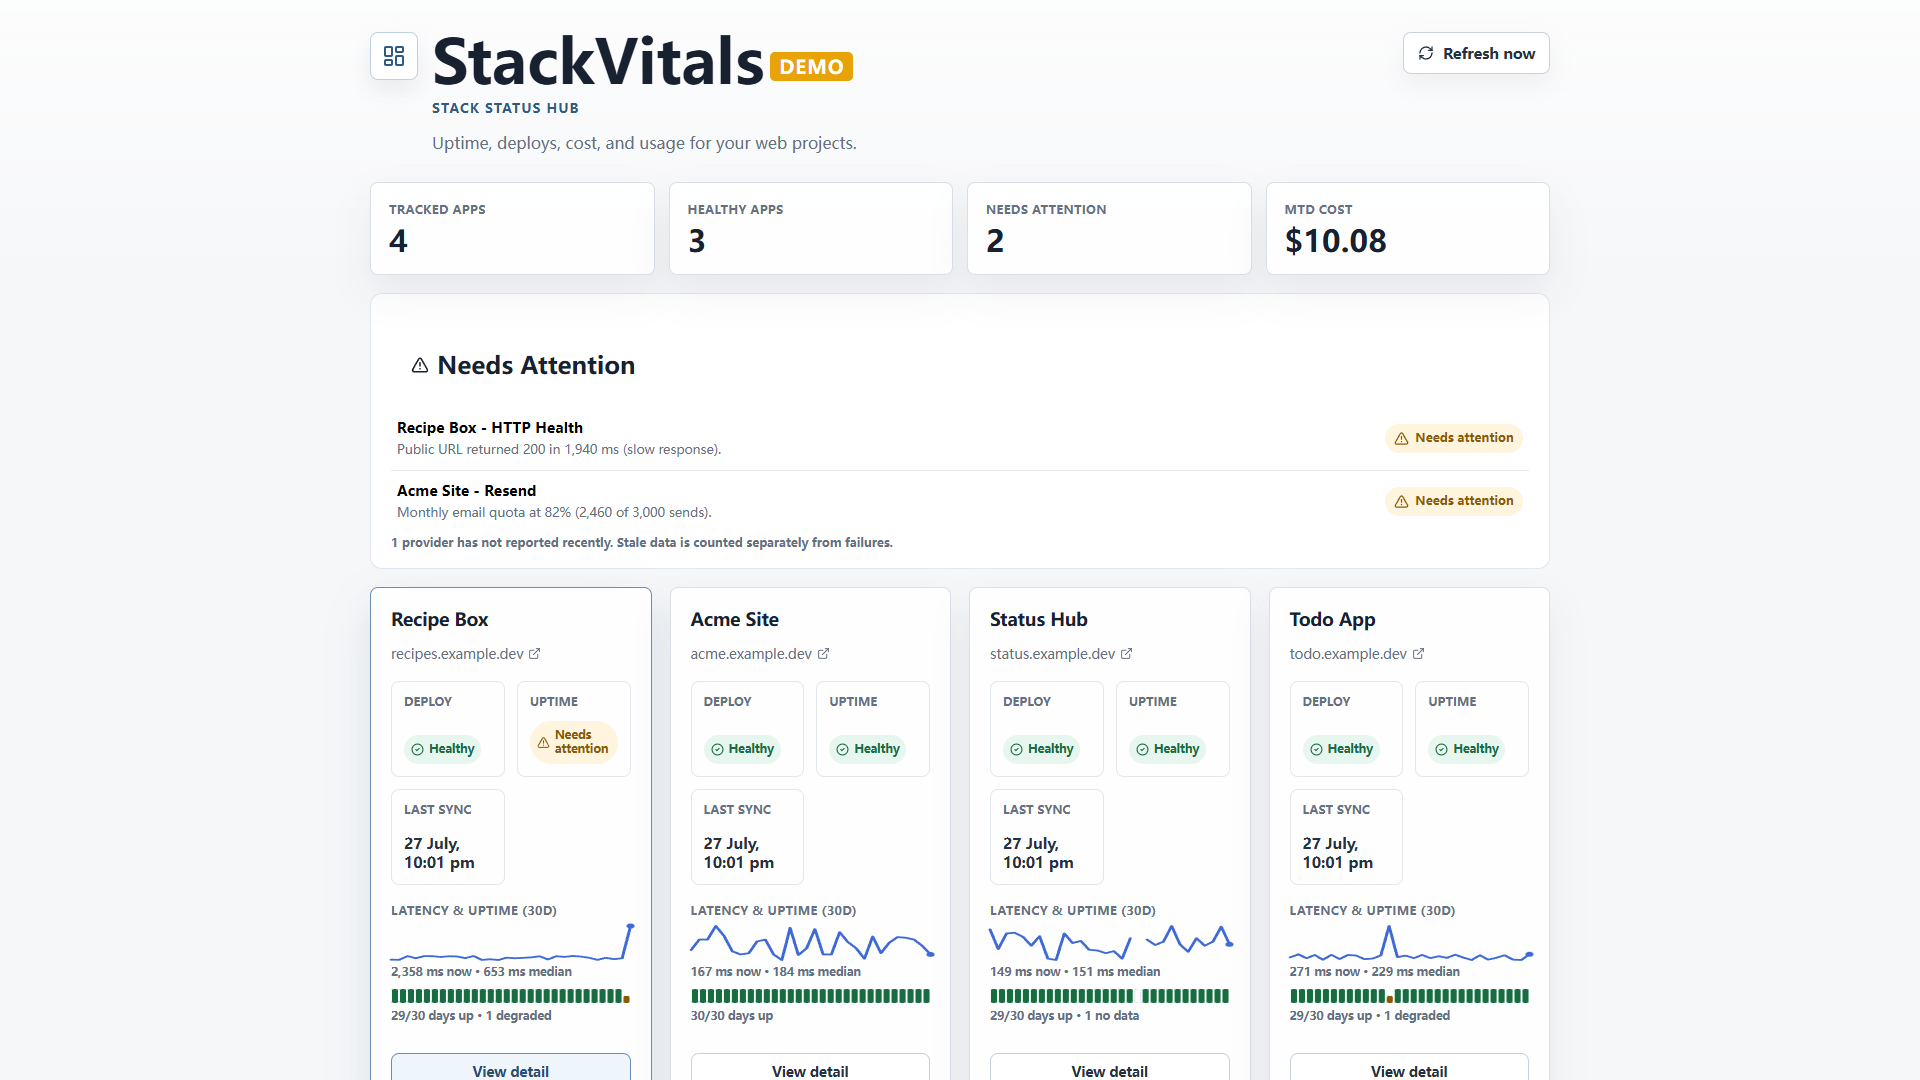
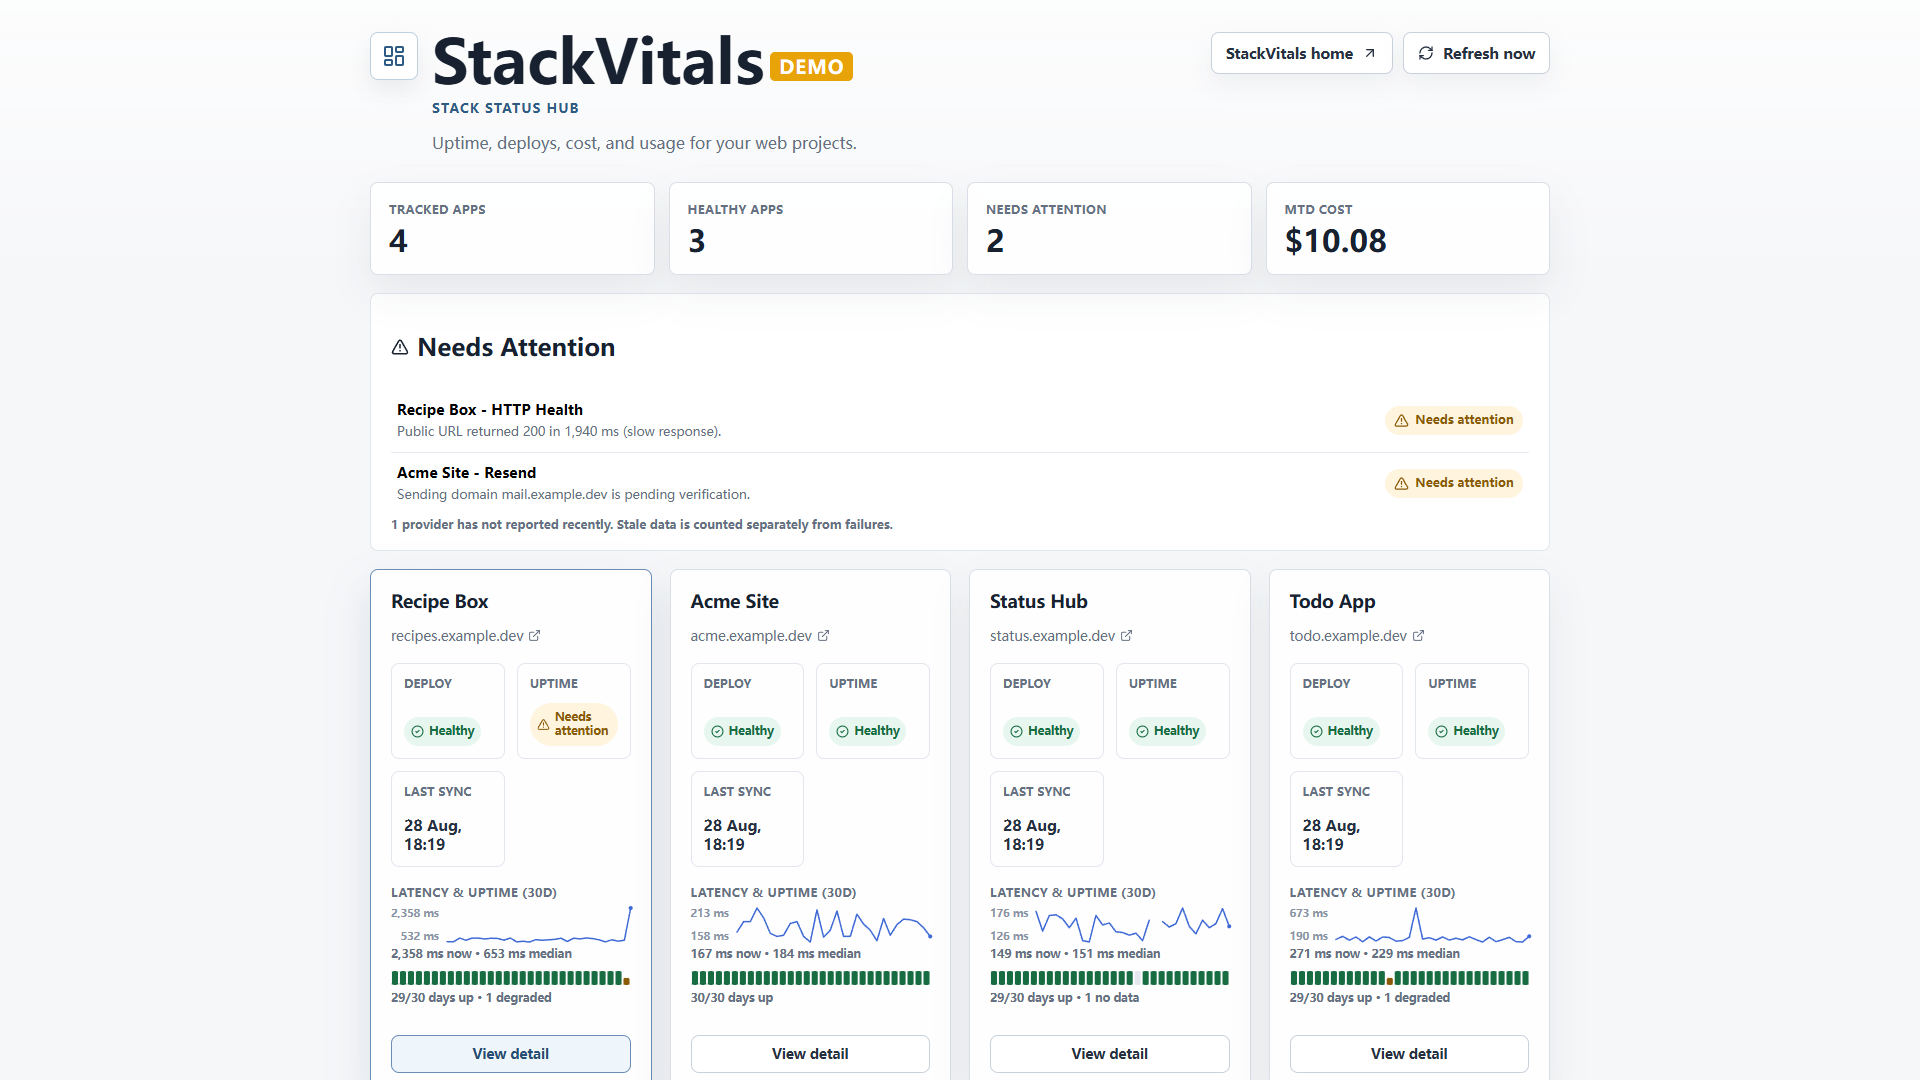
docs: refresh site and demo navigation

diff --git a/src/App.tsx b/src/App.tsx
@@ -1,4 +1,4 @@
-import { AlertTriangle, LayoutDashboard, RefreshCw, Server } from 'lucide-react';
+import { AlertTriangle, ArrowUpRight, LayoutDashboard, RefreshCw, Server } from 'lucide-react';
 import { useCallback, useEffect, useMemo, useState } from 'react';
 import { getOverallStatus } from './lib/status';
 import { buildAttentionItems, countStaleProviders } from './lib/attention';
@@ -134,21 +134,29 @@ function Dashboard() {
             <p>Uptime, deploys, cost, and usage for your web projects.</p>
           </div>
         </div>
-        <button
-          className="refresh-button"
-          type="button"
-          disabled={refreshing}
-          onClick={() =>
-            void (async () => {
-              setRefreshing(true);
-              await loadDashboardData();
-              setRefreshing(false);
-            })()
-          }
-        >
-          <RefreshCw aria-hidden="true" size={16} />
-          {refreshing ? 'Refreshing' : 'Refresh now'}
-        </button>
+        <div className="topbar-actions">
+          {isDemoMode && (
+            <a className="site-link" href="https://stackvitals.dev">
+              StackVitals home
+              <ArrowUpRight aria-hidden="true" size={16} />
+            </a>
+          )}
+          <button
+            className="refresh-button"
+            type="button"
+            disabled={refreshing}
+            onClick={() =>
+              void (async () => {
+                setRefreshing(true);
+                await loadDashboardData();
+                setRefreshing(false);
+              })()
+            }
+          >
+            <RefreshCw aria-hidden="true" size={16} />
+            {refreshing ? 'Refreshing' : 'Refresh now'}
+          </button>
+        </div>
       </header>
 
       {refreshing && (

diff --git a/src/styles.css b/src/styles.css
@@ -188,7 +188,15 @@ a {
   margin-top: -8px;
 }
 
-.refresh-button {
+.topbar-actions {
+  display: flex;
+  flex: 0 0 auto;
+  align-items: center;
+  gap: 10px;
+}
+
+.refresh-button,
+.site-link {
   display: inline-flex;
   min-height: 42px;
   align-items: center;
@@ -202,6 +210,10 @@ a {
   font-weight: 650;
   padding: 0 14px;
   box-shadow: 0 10px 24px rgba(35, 45, 62, 0.06);
+}
+
+.site-link {
+  text-decoration: none;
 }
 
 .refresh-button:disabled {

diff --git a/docs/SELF_HOSTING.md b/docs/SELF_HOSTING.md
@@ -71,9 +71,9 @@ never in a local file.
 
 1. Create a Supabase project for your dashboard instance.
 2. Apply migrations in `supabase/migrations/`.
-3. Run `supabase/seed.sql` (providers registry), then insert your own project rows — copy the
-   commented template in that file into a git-ignored `supabase/seed.local.sql` and run it, so
-   your real slugs, names, and URLs never land in git.
+3. Run `supabase/seed.sql` to create the provider registry. The collector synchronizes project
+   rows from the private config in section 2, so a production instance does not need hand-written
+   project inserts.
 4. In Supabase Auth, disable public signup if you want this to stay single-owner.
 5. Create your own Auth user manually in Supabase.
 6. Add the same email to the allowlist:
@@ -108,6 +108,10 @@ Quick order:
    `projects.config.json` automatically when present; pass `-- --config path/to/file.json` to
    use a different file.
 5. After it works locally, add the same config/secrets to your scheduled workflow.
+
+Each writable collector run treats this config as the active inventory: it upserts configured
+projects, deactivates omitted projects, and removes stored data for providers removed from a
+project.
 
 ### Config values
 
@@ -204,7 +208,9 @@ Fight Mode** doesn't run on the Ruleset Engine at all, so no custom rule can exe
 free-plan zone, set `resources.healthCheckUrl` on the affected project to a target that
 bypasses Cloudflare entirely instead (an Amplify app's free default domain, for example). The
 dashboard's clickable link keeps using `publicUrl`; only the health-check probe uses the
-override.
+override. Set `resources.healthCheckFollowRedirects` to `false` when the deployment origin's
+redirect itself should count as healthy instead of following it back through the protected
+custom domain.
 
 Optional OpenAI display labels and GitHub repository mappings live in private collector config,
 not env vars:

diff --git a/site/src/content/docs/zh-cn/reference/database-schema.md b/site/src/content/docs/zh-cn/reference/database-schema.md
@@ -32,6 +32,10 @@ StackVitals 使用 Supabase Postgres，迁移文件按编号顺序从 `supabase/
 
 `projects.slug` 是自由格式的字符串，必须与 `projects.config.json` 中的 slug 匹配。`providers.key` 映射到 TypeScript 类型 `ProviderKey`。新的提供商键总是与其采集器适配器一起添加，不会提前添加。
 
+### 项目范围的资源
+
+资源标识包含 `project_id`，因此同一物理提供商资源可以出现在多个已配置项目中。账户级资源继续以 null 项目保持唯一。
+
 ### RLS
 
 行级安全策略将所有读取限制为邮箱出现在 `dashboard_users` 中的已认证用户。这是持久的数据边界——前端邮箱允许列表（`VITE_DASHBOARD_ALLOWED_EMAIL`）是额外的关卡，不是替代品。
@@ -48,6 +52,8 @@ StackVitals 使用 Supabase Postgres，迁移文件按编号顺序从 `supabase/
 6. 删除未使用的成本归属字段
 7. 支持 30 天历史视图的时间戳索引
 8. 删除已停用的 Resend 投递指标
+9. 为本地或显式配置的数据库授予快照保留所需的删除权限
+10. 将资源标识限定到项目，使同一提供商资源可以出现在多个项目中
 
 在开发过程中运行 `npm run db:reset` 可以从头重新应用所有迁移和种子数据。
-现有安装应按顺序应用所有较新的迁移；迁移 008 会删除已停用的数据行，避免仪表盘继续显示不再更新的 Resend 投递数值。
+现有安装应按顺序应用所有较新的迁移。迁移 008 删除已停用的 Resend 数据行，009 启用保留期清理，010 避免共享提供商资源在多个已配置项目之间发生冲突。

diff --git a/site/src/content/docs/reference/database-schema.md b/site/src/content/docs/reference/database-schema.md
@@ -38,6 +38,11 @@ project. The dashboard does not guess per-project cost splits.
 `providers.key` maps to the `ProviderKey` TypeScript type. New provider keys are added together
 with their collector adapter, never ahead of it.
 
+### Project-scoped resources
+
+Resource identity includes `project_id`, so one physical provider resource can appear in more
+than one configured project. Account-level resources remain unique with a null project.
+
 ### RLS
 
 Row-level security restricts all reads to authenticated users whose email appears in
@@ -56,7 +61,10 @@ Migrations are applied in numeric order from `supabase/migrations/`:
 6. Removal of the unused cost-attribution column
 7. Timestamp indexes supporting the 30-day history views
 8. Removal of the retired Resend delivery metrics
+9. Delete privileges for snapshot retention on local or explicitly provisioned databases
+10. Project-scoped resource identity, allowing one provider resource in multiple projects
 
 Run `npm run db:reset` to reapply all migrations and seeds from scratch during development.
-Existing installations should apply every newer migration in order; migration 008 removes retired
-rows that would otherwise leave frozen Resend delivery values in the dashboard.
+Existing installations should apply every newer migration in order. Migration 008 removes retired
+Resend rows, 009 enables retention deletes, and 010 prevents shared provider resources from
+colliding across configured projects.

diff --git a/site/src/content/docs/reference/adapters.md b/site/src/content/docs/reference/adapters.md
@@ -29,7 +29,9 @@ config switch below when those credentials do not include cost access.
 
 Probes your project's public URL. No credentials needed — just set `publicUrl` in the project
 config. Optionally override with `resources.healthCheckUrl` when the public URL is behind
-Cloudflare Bot Fight Mode.
+Cloudflare Bot Fight Mode. Set `resources.healthCheckFollowRedirects` to `false` when a
+deployment-origin redirect itself should count as healthy instead of following it to a protected
+custom domain.
 
 Custom headers (`HTTP_HEALTH_CHECK_HEADER_NAME` / `HTTP_HEALTH_CHECK_HEADER_VALUE`) can be sent
 to work around Super Bot Fight Mode (Pro plan) via a WAF Skip rule. Free-plan Bot Fight Mode

diff --git a/CHANGELOG.md b/CHANGELOG.md
@@ -9,6 +9,15 @@ below as its notes.
 
 ## [Unreleased]
 
+### Added
+
+- Add a StackVitals project-site link to the public demo header.
+
+### Changed
+
+- Update the English and Chinese setup references for the current Hub Supabase secret,
+  config-synchronized project inventory, redirect-aware health checks, and migrations 009–010.
+
 ## [1.7.7] - 2026-08-28
 
 ### Fixed
